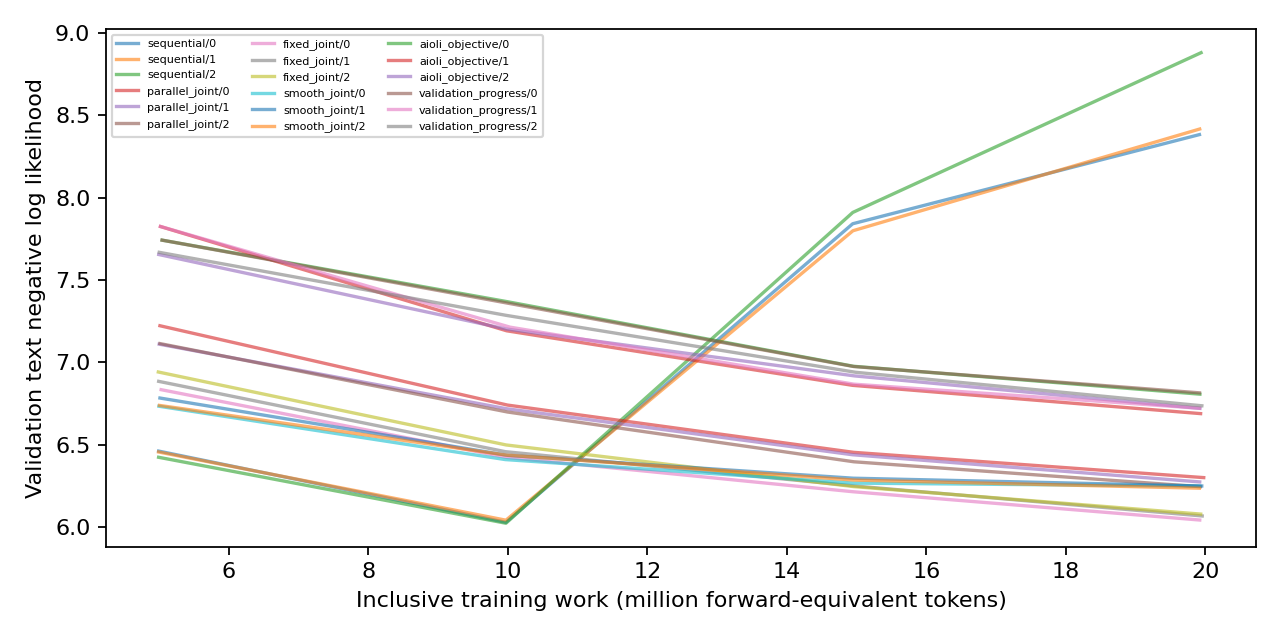
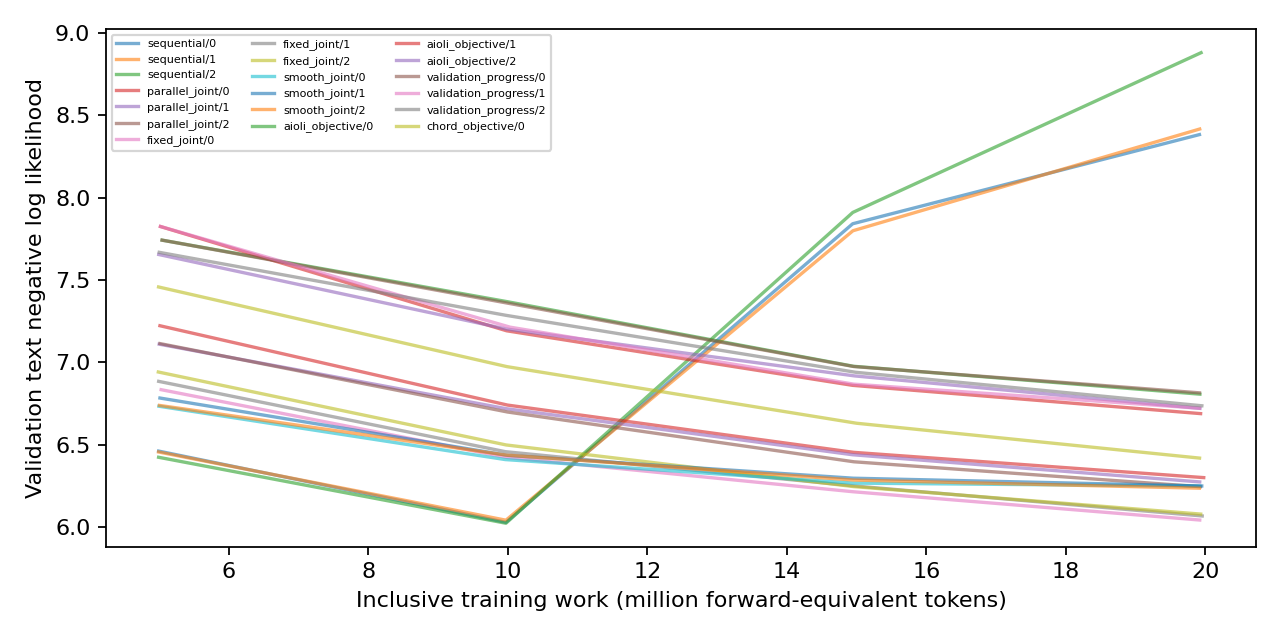
Report verified unified-training pilot progress

diff --git a/experiments/01_scratch_joint_objectives/results.md b/experiments/01_scratch_joint_objectives/results.md
@@ -22,7 +22,7 @@
 | validation_progress | 0 | complete | 19.918 | 0.2416 [0.2248, 0.2592] | 0.0023 [0.0008, 0.0067] | 6.7956 [6.7694, 6.8221] | 0.5039 [0.4431, 0.5646] / 0.5625 [0.5013, 0.6219] |
 | validation_progress | 1 | complete | 19.919 | 0.2466 [0.2297, 0.2644] | 0.0083 [0.0047, 0.0149] | 6.6817 [6.6552, 6.7096] | 0.5000 [0.4392, 0.5608] / 0.4688 [0.4085, 0.5299] |
 | validation_progress | 2 | complete | 19.952 | 0.2496 [0.2326, 0.2674] | 0.0000 [0.0000, 0.0029] | 6.7215 [6.6951, 6.7497] | 0.5117 [0.4508, 0.5723] / 0.5195 [0.4585, 0.5800] |
-| chord_objective | 0 | pending | unavailable | unavailable | unavailable | unavailable | unavailable |
+| chord_objective | 0 | complete | 19.919 | 0.2668 [0.2494, 0.2850] | 0.0000 [0.0000, 0.0029] | 6.4287 [6.4017, 6.4579] | 0.4805 [0.4200, 0.5415] / 0.5586 [0.4973, 0.6181] |
 | chord_objective | 1 | pending | unavailable | unavailable | unavailable | unavailable | unavailable |
 | chord_objective | 2 | pending | unavailable | unavailable | unavailable | unavailable | unavailable |
 | rpt_inspired | 0 | pending | unavailable | unavailable | unavailable | unavailable | unavailable |
@@ -33,7 +33,7 @@ NLL = negative log likelihood; preference raw ordering is the preference endpoin
 
 Intervals: 95% Wilson binary-item score, conditional on each trained model; p-val=n/a (no hypothesis test). Three seeds do not establish universal superiority. Aioli, CHORD (Controllable Harmonization of On- and Off-Policy Reinforcement Learning via Dynamic Weighting), and RPT (Reinforcement Pre-Training) are declared adaptations; exact CHERRY-RL identity remains unresolved.
 
-Complete: 18/24. See `expt_v1/PROTOCOL.md` and the program review reconciliation.
+Complete: 19/24. See `expt_v1/PROTOCOL.md` and the program review reconciliation.
 
 Seed uncertainty, two-stage seed/item intervals, initial-checkpoint changes and all paired comparisons: `expt_v1/analysis.json`. Missing trained seeds remain missing with separate accuracy sensitivity bounds. p-val=n/a throughout; no formal superiority verdict.
 

diff --git a/experiments/00_program/FINAL_STATUS.md b/experiments/00_program/FINAL_STATUS.md
@@ -1,6 +1,6 @@
 # Full-program status
 
-Verified cells: 18/48; failed: 0; interrupted: 0; pending: 30; unstarted at global bound: 0.
+Verified cells: 19/48; failed: 0; interrupted: 0; pending: 29; unstarted at global bound: 0.
 
 Full-program execution is incomplete. Required plan and implementation findings are reconciled; see acceptance.json.
 Results and uncertainty are in each experiment folder; no universal-superiority claim.
